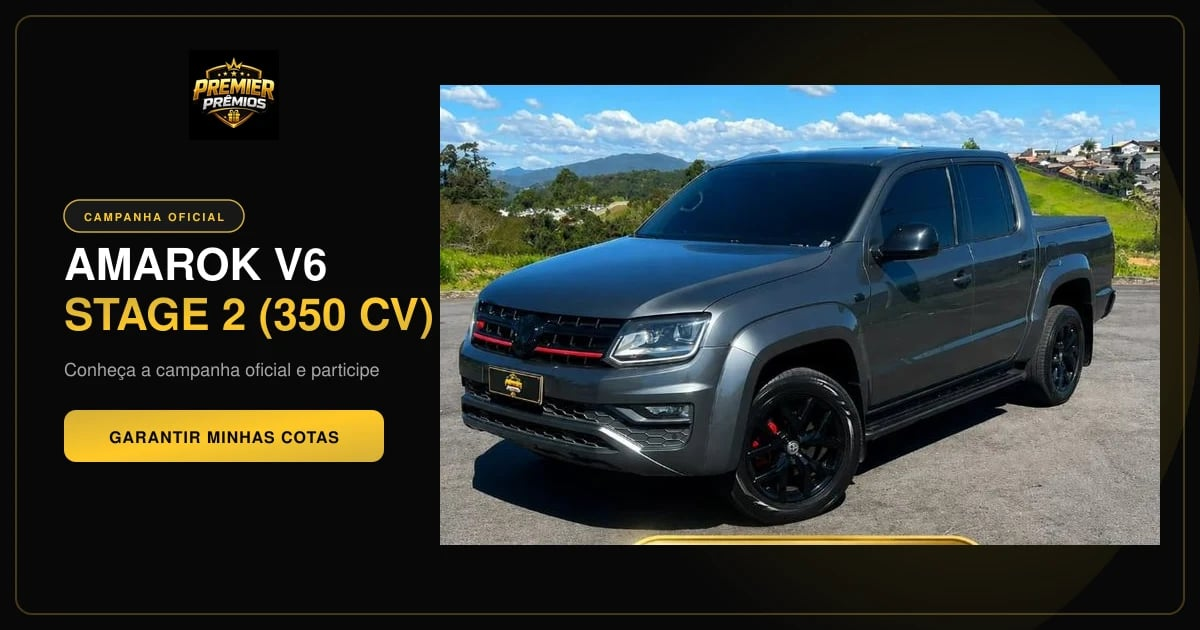
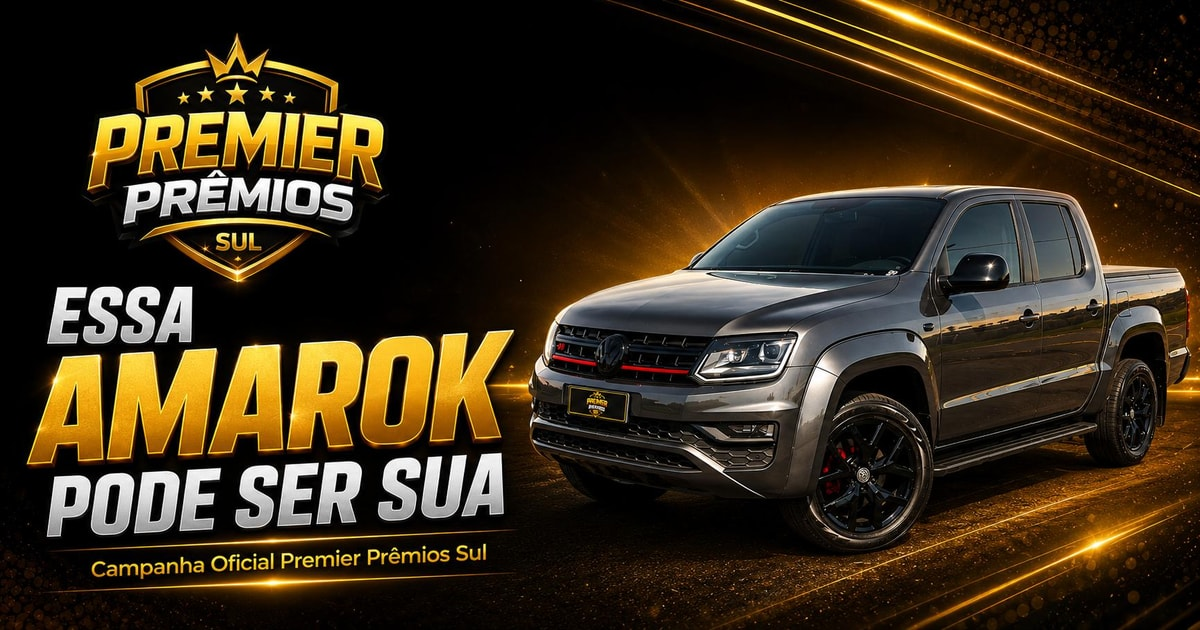
chore: update social media preview image and config
Replace the existing Open Graph image with a new version hosted on Imgur and update the metadata configuration. Added an automation script to handle image processing for consistent social sharing previews.

diff --git a/index.html b/index.html
@@ -23,14 +23,14 @@
     <link rel="apple-touch-icon" sizes="180x180" href="/apple-touch-icon.png" />
     <link rel="manifest" href="/site.webmanifest" />
 
-    <!-- Open Graph / WhatsApp / Facebook -->
+    <!-- Open Graph / WhatsApp / Facebook / Telegram -->
     <meta property="og:type" content="website" />
     <meta property="og:title" content="Premier Prêmios Sul | Campanha Oficial" />
     <meta property="og:description" content="Conheça a campanha atual da Premier Prêmios Sul e acesse a página oficial para participar." />
     <meta property="og:url" content="https://premierpremios.com/amarok-v6-stege-2-350-cv" />
-    <meta property="og:image" content="/assets/images/og-image.webp" />
-    <meta property="og:image:secure_url" content="/assets/images/og-image.webp" />
-    <meta property="og:image:type" content="image/webp" />
+    <meta property="og:image" content="/assets/images/og-image.jpg" />
+    <meta property="og:image:secure_url" content="https://i.imgur.com/0WVvu4G.png" />
+    <meta property="og:image:type" content="image/jpeg" />
     <meta property="og:image:width" content="1200" />
     <meta property="og:image:height" content="630" />
     <meta property="og:image:alt" content="Campanha Oficial Amarok V6 Stage 2 - Premier Prêmios Sul" />
@@ -40,8 +40,8 @@
     <!-- Twitter / X Cards -->
     <meta name="twitter:card" content="summary_large_image" />
     <meta name="twitter:title" content="Premier Prêmios Sul | Campanha Oficial" />
-    <meta name="twitter:description" content="Conheça a campanha atual da Premier Prêmios Sul." />
-    <meta name="twitter:image" content="/assets/images/og-image.webp" />
+    <meta name="twitter:description" content="Conheça a campanha atual da Premier Prêmios Sul e garanta suas cotas." />
+    <meta name="twitter:image" content="https://i.imgur.com/0WVvu4G.png" />
     <meta name="twitter:image:alt" content="Amarok V6 Stage 2 - Premier Prêmios Sul" />
 
     <!-- Preconnect Selecionado (Apenas necessários) -->

diff --git a/src/config.ts b/src/config.ts
@@ -23,6 +23,7 @@ export const CONFIG = {
   CAMPAIGN_SUBTEXT: 'Entre agora na campanha oficial da Premier Prêmios Sul.',
   CAMPAIGN_BASE_URL: 'https://premierpremios.com/amarok-v6-stege-2-350-cv?afiliado=trafego',
   CANONICAL_URL: 'https://premierpremios.com/amarok-v6-stege-2-350-cv',
+  OG_IMAGE_URL: 'https://i.imgur.com/0WVvu4G.png',
   META_PIXEL_ID: (typeof import.meta !== 'undefined' && import.meta.env?.VITE_META_PIXEL_ID) || '28699639839619491',
   CAMPAIGN_CTA_TEXT: '🔥 QUERO PARTICIPAR AGORA',
   CAMPAIGN_FINAL_CTA_TEXT: '🔥 GARANTIR MINHAS COTAS',
